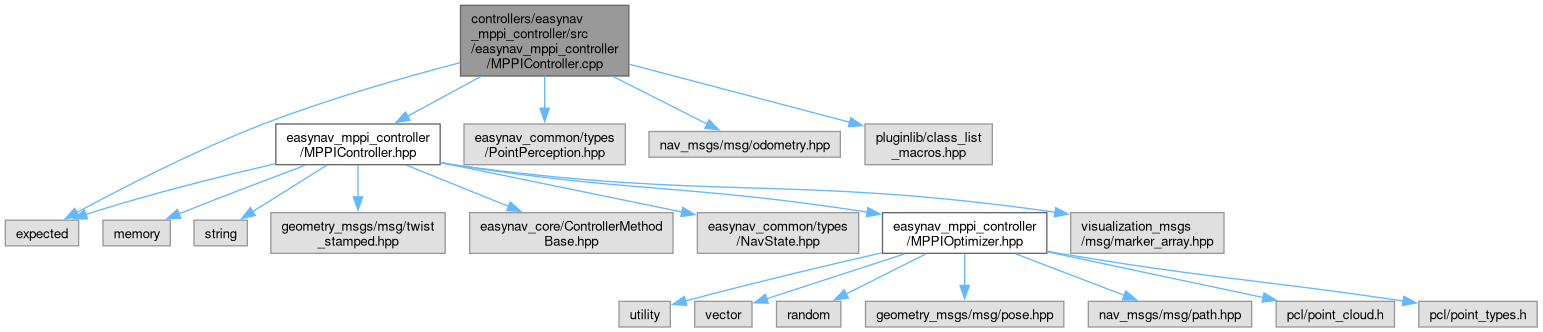
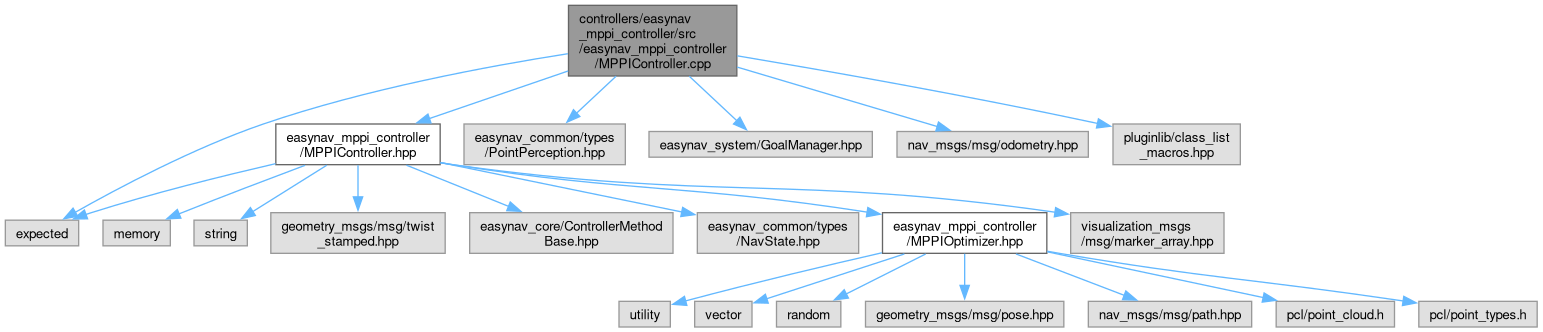
deploy: 215314a94bc722603bfd4a8b51b49faeaf0b64ff

diff --git a/MPPIController_8hpp_source.html b/MPPIController_8hpp_source.html
@@ -158,22 +158,22 @@ $(function(){ initResizable(false); });
 <div class="line"><a id="l00072" name="l00072"></a><span class="lineno">   72</span><span class="preprocessor">#endif  </span><span class="comment">// EASYNAV_MPPI_CONTROLLER__MPPICONTROLLER_HPP_</span></div>
 <div class="ttc" id="aMPPIOptimizer_8hpp_html"><div class="ttname"><a href="MPPIOptimizer_8hpp.html">MPPIOptimizer.hpp</a></div></div>
 <div class="ttc" id="aclasseasynav_1_1MPPIController_html_a184ccf785fbb6405ccc1f44510abe9d6"><div class="ttname"><a href="classeasynav_1_1MPPIController.html#a184ccf785fbb6405ccc1f44510abe9d6">easynav::MPPIController::optimizer_</a></div><div class="ttdeci">std::unique_ptr&lt; MPPIOptimizer &gt; optimizer_</div><div class="ttdoc">MPPI optimizer.</div><div class="ttdef"><b>Definition</b> MPPIController.hpp:57</div></div>
-<div class="ttc" id="aclasseasynav_1_1MPPIController_html_a21363d3659ba43821aaba326d647f883"><div class="ttname"><a href="classeasynav_1_1MPPIController.html#a21363d3659ba43821aaba326d647f883">easynav::MPPIController::publish_mppi_markers</a></div><div class="ttdeci">void publish_mppi_markers(const std::vector&lt; std::vector&lt; std::pair&lt; double, double &gt; &gt; &gt; &amp;all_trajs, const std::vector&lt; std::pair&lt; double, double &gt; &gt; &amp;best_traj)</div><div class="ttdoc">Publishes MPPI markers for visualization.</div><div class="ttdef"><b>Definition</b> MPPIController.cpp:76</div></div>
+<div class="ttc" id="aclasseasynav_1_1MPPIController_html_a21363d3659ba43821aaba326d647f883"><div class="ttname"><a href="classeasynav_1_1MPPIController.html#a21363d3659ba43821aaba326d647f883">easynav::MPPIController::publish_mppi_markers</a></div><div class="ttdeci">void publish_mppi_markers(const std::vector&lt; std::vector&lt; std::pair&lt; double, double &gt; &gt; &gt; &amp;all_trajs, const std::vector&lt; std::pair&lt; double, double &gt; &gt; &amp;best_traj)</div><div class="ttdoc">Publishes MPPI markers for visualization.</div><div class="ttdef"><b>Definition</b> MPPIController.cpp:77</div></div>
 <div class="ttc" id="aclasseasynav_1_1MPPIController_html_a2842ab7e326293e6af511fd4fd9aa174"><div class="ttname"><a href="classeasynav_1_1MPPIController.html#a2842ab7e326293e6af511fd4fd9aa174">easynav::MPPIController::max_lin_vel_</a></div><div class="ttdeci">double max_lin_vel_</div><div class="ttdoc">Maximum linear velocity for MPPI.</div><div class="ttdef"><b>Definition</b> MPPIController.hpp:48</div></div>
 <div class="ttc" id="aclasseasynav_1_1MPPIController_html_a325e56d896dee4cab40d843ce180b331"><div class="ttname"><a href="classeasynav_1_1MPPIController.html#a325e56d896dee4cab40d843ce180b331">easynav::MPPIController::safety_radius_</a></div><div class="ttdeci">double safety_radius_</div><div class="ttdoc">Safety radius for obstacle avoidance.</div><div class="ttdef"><b>Definition</b> MPPIController.hpp:53</div></div>
 <div class="ttc" id="aclasseasynav_1_1MPPIController_html_a42a65ea434d32fceba0cf1d6f88c9159"><div class="ttname"><a href="classeasynav_1_1MPPIController.html#a42a65ea434d32fceba0cf1d6f88c9159">easynav::MPPIController::dt_</a></div><div class="ttdeci">double dt_</div><div class="ttdoc">Time step for MPPI.</div><div class="ttdef"><b>Definition</b> MPPIController.hpp:46</div></div>
 <div class="ttc" id="aclasseasynav_1_1MPPIController_html_a612f1561fb617beec22a83692b302ba5"><div class="ttname"><a href="classeasynav_1_1MPPIController.html#a612f1561fb617beec22a83692b302ba5">easynav::MPPIController::max_ang_acc_</a></div><div class="ttdeci">double max_ang_acc_</div><div class="ttdoc">Maximum angular acceleration for MPPI.</div><div class="ttdef"><b>Definition</b> MPPIController.hpp:51</div></div>
 <div class="ttc" id="aclasseasynav_1_1MPPIController_html_a628b9037215320c310cee6b1370b011d"><div class="ttname"><a href="classeasynav_1_1MPPIController.html#a628b9037215320c310cee6b1370b011d">easynav::MPPIController::lambda_</a></div><div class="ttdeci">double lambda_</div><div class="ttdoc">Temperature parameter for MPPI.</div><div class="ttdef"><b>Definition</b> MPPIController.hpp:47</div></div>
 <div class="ttc" id="aclasseasynav_1_1MPPIController_html_a6a9de5bbd5031ab9139b7bb4e69cfd80"><div class="ttname"><a href="classeasynav_1_1MPPIController.html#a6a9de5bbd5031ab9139b7bb4e69cfd80">easynav::MPPIController::twist_stamped_</a></div><div class="ttdeci">geometry_msgs::msg::TwistStamped twist_stamped_</div><div class="ttdoc">Current velocity command.</div><div class="ttdef"><b>Definition</b> MPPIController.hpp:55</div></div>
-<div class="ttc" id="aclasseasynav_1_1MPPIController_html_a6ed380ba537bbe9a85710810db50a95c"><div class="ttname"><a href="classeasynav_1_1MPPIController.html#a6ed380ba537bbe9a85710810db50a95c">easynav::MPPIController::update_rt</a></div><div class="ttdeci">void update_rt(NavState &amp;nav_state) override</div><div class="ttdoc">Updates the controller using the given NavState.</div><div class="ttdef"><b>Definition</b> MPPIController.cpp:141</div></div>
+<div class="ttc" id="aclasseasynav_1_1MPPIController_html_a6ed380ba537bbe9a85710810db50a95c"><div class="ttname"><a href="classeasynav_1_1MPPIController.html#a6ed380ba537bbe9a85710810db50a95c">easynav::MPPIController::update_rt</a></div><div class="ttdeci">void update_rt(NavState &amp;nav_state) override</div><div class="ttdoc">Updates the controller using the given NavState.</div><div class="ttdef"><b>Definition</b> MPPIController.cpp:142</div></div>
 <div class="ttc" id="aclasseasynav_1_1MPPIController_html_a80a55a93bfafd6db6d1a68bb3b7939ad"><div class="ttname"><a href="classeasynav_1_1MPPIController.html#a80a55a93bfafd6db6d1a68bb3b7939ad">easynav::MPPIController::num_samples_</a></div><div class="ttdeci">int num_samples_</div><div class="ttdoc">Number of samples for MPPI.</div><div class="ttdef"><b>Definition</b> MPPIController.hpp:44</div></div>
 <div class="ttc" id="aclasseasynav_1_1MPPIController_html_a8e951781a235ccfcde6fafd1c2058e70"><div class="ttname"><a href="classeasynav_1_1MPPIController.html#a8e951781a235ccfcde6fafd1c2058e70">easynav::MPPIController::mppi_candidates_pub_</a></div><div class="ttdeci">rclcpp::Publisher&lt; visualization_msgs::msg::MarkerArray &gt;::SharedPtr mppi_candidates_pub_</div><div class="ttdoc">Publisher for MPPI candidates markers.</div><div class="ttdef"><b>Definition</b> MPPIController.hpp:58</div></div>
-<div class="ttc" id="aclasseasynav_1_1MPPIController_html_aa09f4316ce265b452c96e6d74101cd76"><div class="ttname"><a href="classeasynav_1_1MPPIController.html#aa09f4316ce265b452c96e6d74101cd76">easynav::MPPIController::on_initialize</a></div><div class="ttdeci">std::expected&lt; void, std::string &gt; on_initialize() override</div><div class="ttdoc">Initializes parameters and MPPI controller.</div><div class="ttdef"><b>Definition</b> MPPIController.cpp:38</div></div>
+<div class="ttc" id="aclasseasynav_1_1MPPIController_html_aa09f4316ce265b452c96e6d74101cd76"><div class="ttname"><a href="classeasynav_1_1MPPIController.html#aa09f4316ce265b452c96e6d74101cd76">easynav::MPPIController::on_initialize</a></div><div class="ttdeci">std::expected&lt; void, std::string &gt; on_initialize() override</div><div class="ttdoc">Initializes parameters and MPPI controller.</div><div class="ttdef"><b>Definition</b> MPPIController.cpp:39</div></div>
 <div class="ttc" id="aclasseasynav_1_1MPPIController_html_ab8bce157ac29a127239bd08d16456887"><div class="ttname"><a href="classeasynav_1_1MPPIController.html#ab8bce157ac29a127239bd08d16456887">easynav::MPPIController::~MPPIController</a></div><div class="ttdeci">~MPPIController() override</div><div class="ttdoc">Destructor.</div></div>
 <div class="ttc" id="aclasseasynav_1_1MPPIController_html_ac19f307b9783300d26fd4c53ce744f4e"><div class="ttname"><a href="classeasynav_1_1MPPIController.html#ac19f307b9783300d26fd4c53ce744f4e">easynav::MPPIController::max_ang_vel_</a></div><div class="ttdeci">double max_ang_vel_</div><div class="ttdoc">Maximum angular velocity for MPPI.</div><div class="ttdef"><b>Definition</b> MPPIController.hpp:49</div></div>
 <div class="ttc" id="aclasseasynav_1_1MPPIController_html_ad23828a2bf11c1cf8df11e6400adde2e"><div class="ttname"><a href="classeasynav_1_1MPPIController.html#ad23828a2bf11c1cf8df11e6400adde2e">easynav::MPPIController::fov_</a></div><div class="ttdeci">double fov_</div><div class="ttdoc">Field of view for MPPI.</div><div class="ttdef"><b>Definition</b> MPPIController.hpp:52</div></div>
 <div class="ttc" id="aclasseasynav_1_1MPPIController_html_ad6ba936c86b5a6bebce3778150cb08a8"><div class="ttname"><a href="classeasynav_1_1MPPIController.html#ad6ba936c86b5a6bebce3778150cb08a8">easynav::MPPIController::horizon_steps_</a></div><div class="ttdeci">int horizon_steps_</div><div class="ttdoc">Prediction horizon for MPPI.</div><div class="ttdef"><b>Definition</b> MPPIController.hpp:45</div></div>
-<div class="ttc" id="aclasseasynav_1_1MPPIController_html_ad9b24cab72366c4f858ec99e057815fc"><div class="ttname"><a href="classeasynav_1_1MPPIController.html#ad9b24cab72366c4f858ec99e057815fc">easynav::MPPIController::MPPIController</a></div><div class="ttdeci">MPPIController()</div><div class="ttdef"><b>Definition</b> MPPIController.cpp:33</div></div>
+<div class="ttc" id="aclasseasynav_1_1MPPIController_html_ad9b24cab72366c4f858ec99e057815fc"><div class="ttname"><a href="classeasynav_1_1MPPIController.html#ad9b24cab72366c4f858ec99e057815fc">easynav::MPPIController::MPPIController</a></div><div class="ttdeci">MPPIController()</div><div class="ttdef"><b>Definition</b> MPPIController.cpp:34</div></div>
 <div class="ttc" id="aclasseasynav_1_1MPPIController_html_aed29cb07dfb250c6010ee111e5f26d9c"><div class="ttname"><a href="classeasynav_1_1MPPIController.html#aed29cb07dfb250c6010ee111e5f26d9c">easynav::MPPIController::max_lin_acc_</a></div><div class="ttdeci">double max_lin_acc_</div><div class="ttdoc">Maximum linear acceleration for MPPI.</div><div class="ttdef"><b>Definition</b> MPPIController.hpp:50</div></div>
 <div class="ttc" id="aclasseasynav_1_1MPPIController_html_af417c44d779639cc93a6e41e23717559"><div class="ttname"><a href="classeasynav_1_1MPPIController.html#af417c44d779639cc93a6e41e23717559">easynav::MPPIController::mppi_optimal_pub_</a></div><div class="ttdeci">rclcpp::Publisher&lt; visualization_msgs::msg::MarkerArray &gt;::SharedPtr mppi_optimal_pub_</div><div class="ttdoc">Publisher for MPPI optimal path markers.</div><div class="ttdef"><b>Definition</b> MPPIController.hpp:59</div></div>
 <div class="ttc" id="anamespaceeasynav_html"><div class="ttname"><a href="namespaceeasynav.html">easynav</a></div><div class="ttdoc">Provides a mapping for often used cost values.</div><div class="ttdef"><b>Definition</b> cost_values.hpp:41</div></div>

diff --git a/CostmapPlanner_8hpp_source.html b/CostmapPlanner_8hpp_source.html
@@ -158,17 +158,17 @@ $(function(){ initResizable(false); });
 <div class="line"><a id="l00105" name="l00105"></a><span class="lineno">  105</span><span class="preprocessor">#endif  </span><span class="comment">// EASYNAV_COSTMAP_PLANNER__COSTMAPPLANNER_HPP_</span></div>
 <div class="ttc" id="aclassPlannerMethodBase_html"><div class="ttname"><a href="classPlannerMethodBase.html">PlannerMethodBase</a></div></div>
 <div class="ttc" id="aclasseasynav_1_1Costmap2D_html"><div class="ttname"><a href="classeasynav_1_1Costmap2D.html">easynav::Costmap2D</a></div><div class="ttdoc">A 2D costmap provides a mapping between points in the world and their associated &quot;costs&quot;.</div><div class="ttdef"><b>Definition</b> costmap_2d.hpp:65</div></div>
-<div class="ttc" id="aclasseasynav_1_1CostmapPlanner_html_a24ddfd2eba3d3d6a90d492e8d25ff0da"><div class="ttname"><a href="classeasynav_1_1CostmapPlanner.html#a24ddfd2eba3d3d6a90d492e8d25ff0da">easynav::CostmapPlanner::update</a></div><div class="ttdeci">void update(NavState &amp;nav_state) override</div><div class="ttdoc">Executes a planning cycle using the current navigation state.</div><div class="ttdef"><b>Definition</b> CostmapPlanner.cpp:104</div></div>
+<div class="ttc" id="aclasseasynav_1_1CostmapPlanner_html_a24ddfd2eba3d3d6a90d492e8d25ff0da"><div class="ttname"><a href="classeasynav_1_1CostmapPlanner.html#a24ddfd2eba3d3d6a90d492e8d25ff0da">easynav::CostmapPlanner::update</a></div><div class="ttdeci">void update(NavState &amp;nav_state) override</div><div class="ttdoc">Executes a planning cycle using the current navigation state.</div><div class="ttdef"><b>Definition</b> CostmapPlanner.cpp:147</div></div>
 <div class="ttc" id="aclasseasynav_1_1CostmapPlanner_html_a35e94cf5823e535adf42e15573b348d8"><div class="ttname"><a href="classeasynav_1_1CostmapPlanner.html#a35e94cf5823e535adf42e15573b348d8">easynav::CostmapPlanner::continuous_replan_</a></div><div class="ttdeci">bool continuous_replan_</div><div class="ttdoc">Wheter replan path at freq time.</div><div class="ttdef"><b>Definition</b> CostmapPlanner.hpp:75</div></div>
 <div class="ttc" id="aclasseasynav_1_1CostmapPlanner_html_a3a0cc9d7035b71dd3eae451181ee896f"><div class="ttname"><a href="classeasynav_1_1CostmapPlanner.html#a3a0cc9d7035b71dd3eae451181ee896f">easynav::CostmapPlanner::cost_axial_</a></div><div class="ttdeci">double cost_axial_</div><div class="ttdoc">Cost multiplier for axial (horizontal/vertical) moves.</div><div class="ttdef"><b>Definition</b> CostmapPlanner.hpp:73</div></div>
-<div class="ttc" id="aclasseasynav_1_1CostmapPlanner_html_a4af8c9ca8afd491cb4741a1e3c636e7b"><div class="ttname"><a href="classeasynav_1_1CostmapPlanner.html#a4af8c9ca8afd491cb4741a1e3c636e7b">easynav::CostmapPlanner::CostmapPlanner</a></div><div class="ttdeci">CostmapPlanner()</div><div class="ttdoc">Default constructor.</div><div class="ttdef"><b>Definition</b> CostmapPlanner.cpp:71</div></div>
+<div class="ttc" id="aclasseasynav_1_1CostmapPlanner_html_a4af8c9ca8afd491cb4741a1e3c636e7b"><div class="ttname"><a href="classeasynav_1_1CostmapPlanner.html#a4af8c9ca8afd491cb4741a1e3c636e7b">easynav::CostmapPlanner::CostmapPlanner</a></div><div class="ttdeci">CostmapPlanner()</div><div class="ttdoc">Default constructor.</div><div class="ttdef"><b>Definition</b> CostmapPlanner.cpp:114</div></div>
 <div class="ttc" id="aclasseasynav_1_1CostmapPlanner_html_a89eb78013dffcbf2780471861a37b90a"><div class="ttname"><a href="classeasynav_1_1CostmapPlanner.html#a89eb78013dffcbf2780471861a37b90a">easynav::CostmapPlanner::cost_factor_</a></div><div class="ttdeci">double cost_factor_</div><div class="ttdoc">Scaling factor applied to cell cost values.</div><div class="ttdef"><b>Definition</b> CostmapPlanner.hpp:71</div></div>
 <div class="ttc" id="aclasseasynav_1_1CostmapPlanner_html_a8dc6b25f90bfb16f7f1d95b51800aa00"><div class="ttname"><a href="classeasynav_1_1CostmapPlanner.html#a8dc6b25f90bfb16f7f1d95b51800aa00">easynav::CostmapPlanner::current_path_</a></div><div class="ttdeci">nav_msgs::msg::Path current_path_</div><div class="ttdoc">Most recently computed path.</div><div class="ttdef"><b>Definition</b> CostmapPlanner.hpp:76</div></div>
-<div class="ttc" id="aclasseasynav_1_1CostmapPlanner_html_aa09f4316ce265b452c96e6d74101cd76"><div class="ttname"><a href="classeasynav_1_1CostmapPlanner.html#aa09f4316ce265b452c96e6d74101cd76">easynav::CostmapPlanner::on_initialize</a></div><div class="ttdeci">virtual std::expected&lt; void, std::string &gt; on_initialize() override</div><div class="ttdoc">Initializes the planner.</div><div class="ttdef"><b>Definition</b> CostmapPlanner.cpp:82</div></div>
+<div class="ttc" id="aclasseasynav_1_1CostmapPlanner_html_aa09f4316ce265b452c96e6d74101cd76"><div class="ttname"><a href="classeasynav_1_1CostmapPlanner.html#aa09f4316ce265b452c96e6d74101cd76">easynav::CostmapPlanner::on_initialize</a></div><div class="ttdeci">virtual std::expected&lt; void, std::string &gt; on_initialize() override</div><div class="ttdoc">Initializes the planner.</div><div class="ttdef"><b>Definition</b> CostmapPlanner.cpp:125</div></div>
 <div class="ttc" id="aclasseasynav_1_1CostmapPlanner_html_aa6594c58e9975c44d0602a32f8b89d96"><div class="ttname"><a href="classeasynav_1_1CostmapPlanner.html#aa6594c58e9975c44d0602a32f8b89d96">easynav::CostmapPlanner::current_goal_</a></div><div class="ttdeci">geometry_msgs::msg::Pose current_goal_</div><div class="ttdoc">Current goal.</div><div class="ttdef"><b>Definition</b> CostmapPlanner.hpp:77</div></div>
 <div class="ttc" id="aclasseasynav_1_1CostmapPlanner_html_aae88bf99367ef2892c348393a3ee8f84"><div class="ttname"><a href="classeasynav_1_1CostmapPlanner.html#aae88bf99367ef2892c348393a3ee8f84">easynav::CostmapPlanner::cost_diagonal_</a></div><div class="ttdeci">double cost_diagonal_</div><div class="ttdoc">Cost multiplier for diagonal moves.</div><div class="ttdef"><b>Definition</b> CostmapPlanner.hpp:74</div></div>
 <div class="ttc" id="aclasseasynav_1_1CostmapPlanner_html_ac44f0fe3c3f35ae18c498ef6ecb47dd6"><div class="ttname"><a href="classeasynav_1_1CostmapPlanner.html#ac44f0fe3c3f35ae18c498ef6ecb47dd6">easynav::CostmapPlanner::path_pub_</a></div><div class="ttdeci">rclcpp::Publisher&lt; nav_msgs::msg::Path &gt;::SharedPtr path_pub_</div><div class="ttdoc">Publisher for the computed navigation path (for visualization or monitoring).</div><div class="ttdef"><b>Definition</b> CostmapPlanner.hpp:80</div></div>
-<div class="ttc" id="aclasseasynav_1_1CostmapPlanner_html_ad8dd8ff2b3fee4c3dca90b0e2b091d66"><div class="ttname"><a href="classeasynav_1_1CostmapPlanner.html#ad8dd8ff2b3fee4c3dca90b0e2b091d66">easynav::CostmapPlanner::a_star_path</a></div><div class="ttdeci">std::vector&lt; geometry_msgs::msg::Pose &gt; a_star_path(const Costmap2D &amp;map, const geometry_msgs::msg::Pose &amp;start, const geometry_msgs::msg::Pose &amp;goal)</div><div class="ttdoc">Internal A* path planning routine.</div><div class="ttdef"><b>Definition</b> CostmapPlanner.cpp:207</div></div>
+<div class="ttc" id="aclasseasynav_1_1CostmapPlanner_html_ad8dd8ff2b3fee4c3dca90b0e2b091d66"><div class="ttname"><a href="classeasynav_1_1CostmapPlanner.html#ad8dd8ff2b3fee4c3dca90b0e2b091d66">easynav::CostmapPlanner::a_star_path</a></div><div class="ttdeci">std::vector&lt; geometry_msgs::msg::Pose &gt; a_star_path(const Costmap2D &amp;map, const geometry_msgs::msg::Pose &amp;start, const geometry_msgs::msg::Pose &amp;goal)</div><div class="ttdoc">Internal A* path planning routine.</div><div class="ttdef"><b>Definition</b> CostmapPlanner.cpp:250</div></div>
 <div class="ttc" id="aclasseasynav_1_1CostmapPlanner_html_afa42e78400a5504304ee9b56e2160d5c"><div class="ttname"><a href="classeasynav_1_1CostmapPlanner.html#afa42e78400a5504304ee9b56e2160d5c">easynav::CostmapPlanner::inflation_penalty_</a></div><div class="ttdeci">double inflation_penalty_</div><div class="ttdoc">Extra cost penalty for paths near inflated obstacles.</div><div class="ttdef"><b>Definition</b> CostmapPlanner.hpp:72</div></div>
 <div class="ttc" id="acostmap__2d_8hpp_html"><div class="ttname"><a href="costmap__2d_8hpp.html">costmap_2d.hpp</a></div></div>
 <div class="ttc" id="anamespaceeasynav_html"><div class="ttname"><a href="namespaceeasynav.html">easynav</a></div><div class="ttdoc">Provides a mapping for often used cost values.</div><div class="ttdef"><b>Definition</b> cost_values.hpp:41</div></div>

diff --git a/SerestController_8cpp.html b/SerestController_8cpp.html
@@ -99,6 +99,7 @@ $(function(){ initResizable(false); });
 <div class="textblock"><code>#include &lt;algorithm&gt;</code><br />
 <code>#include &lt;limits&gt;</code><br />
 <code>#include &lt;cmath&gt;</code><br />
+<code>#include &lt;numbers&gt;</code><br />
 <code>#include &quot;tf2/utils.hpp&quot;</code><br />
 <code>#include &quot;tf2_geometry_msgs/tf2_geometry_msgs.hpp&quot;</code><br />
 <code>#include &quot;easynav_common/types/PointPerception.hpp&quot;</code><br />
@@ -109,41 +110,43 @@ Include dependency graph for SerestController.cpp:</div>
 <div class="dyncontent">
 <div class="center"><img src="SerestController_8cpp__incl.png" border="0" usemap="#acontrollers_2easynav__serest__controller_2src_2easynav__serest__controller_2SerestController_8cpp" alt=""/></div>
 <map name="acontrollers_2easynav__serest__controller_2src_2easynav__serest__controller_2SerestController_8cpp" id="acontrollers_2easynav__serest__controller_2src_2easynav__serest__controller_2SerestController_8cpp">
-<area shape="rect" title="Implementation of the SimpleController class." alt="" coords="290,5,467,76"/>
+<area shape="rect" title="Implementation of the SimpleController class." alt="" coords="313,5,489,76"/>
 <area shape="rect" title=" " alt="" coords="5,132,80,157"/>
-<area shape="poly" title=" " alt="" coords="291,68,93,127,87,128,86,123,91,121,289,63"/>
+<area shape="poly" title=" " alt="" coords="313,65,207,93,93,127,87,128,85,123,91,121,206,88,312,60"/>
 <area shape="rect" title=" " alt="" coords="104,132,157,157"/>
-<area shape="poly" title=" " alt="" coords="291,77,170,126,169,127,167,122,168,122,289,72"/>
+<area shape="poly" title=" " alt="" coords="314,73,170,126,169,127,167,122,168,122,312,68"/>
 <area shape="rect" title=" " alt="" coords="180,132,238,157"/>
-<area shape="poly" title=" " alt="" coords="322,79,244,126,241,121,319,74"/>
-<area shape="rect" title=" " alt="" coords="262,132,351,157"/>
-<area shape="poly" title=" " alt="" coords="356,78,326,120,322,117,352,75"/>
-<area shape="rect" title=" " alt="" coords="375,124,529,165"/>
-<area shape="poly" title=" " alt="" coords="405,75,431,110,427,113,401,78"/>
-<area shape="rect" title=" " alt="" coords="552,124,714,165"/>
-<area shape="poly" title=" " alt="" coords="467,74,571,115,569,120,465,79"/>
-<area shape="rect" href="SerestController_8hpp.html" title=" " alt="" coords="738,124,910,165"/>
-<area shape="poly" title=" " alt="" coords="468,59,723,117,722,123,466,65"/>
-<area shape="rect" title=" " alt="" coords="934,124,1061,165"/>
-<area shape="poly" title=" " alt="" coords="467,50,670,78,918,121,917,126,669,83,467,55"/>
-<area shape="rect" title=" " alt="" coords="338,220,411,246"/>
-<area shape="poly" title=" " alt="" coords="738,165,727,167,641,180,575,187,508,196,425,215,418,217,417,212,423,210,507,191,574,182,641,175,726,162,737,160"/>
-<area shape="rect" title=" " alt="" coords="435,220,492,246"/>
-<area shape="poly" title=" " alt="" coords="738,165,506,215,502,217,500,211,504,210,737,160"/>
-<area shape="rect" title=" " alt="" coords="517,220,570,246"/>
-<area shape="poly" title=" " alt="" coords="739,168,663,189,583,215,581,216,579,211,582,210,661,184,738,163"/>
-<area shape="rect" title=" " alt="" coords="594,220,704,246"/>
-<area shape="poly" title=" " alt="" coords="785,168,688,215,686,211,783,163"/>
-<area shape="rect" title=" " alt="" coords="728,220,920,246"/>
-<area shape="poly" title=" " alt="" coords="826,165,826,205,821,205,821,165"/>
-<area shape="rect" title=" " alt="" coords="944,220,1107,246"/>
-<area shape="poly" title=" " alt="" coords="871,163,984,211,982,216,868,168"/>
-<area shape="rect" title=" " alt="" coords="1131,213,1306,253"/>
-<area shape="poly" title=" " alt="" coords="911,162,1116,207,1115,212,910,167"/>
-<area shape="rect" title=" " alt="" coords="1330,213,1534,253"/>
-<area shape="poly" title=" " alt="" coords="911,160,922,162,1116,187,1315,210,1315,215,1116,192,921,167,910,166"/>
-<area shape="rect" title=" " alt="" coords="1558,213,1719,253"/>
-<area shape="poly" title=" " alt="" coords="911,160,921,162,1094,180,1230,186,1368,192,1543,210,1542,215,1367,197,1230,191,1094,185,921,167,910,166"/>
+<area shape="poly" title=" " alt="" coords="337,79,247,126,244,121,334,74"/>
+<area shape="rect" title=" " alt="" coords="262,132,333,157"/>
+<area shape="poly" title=" " alt="" coords="368,78,322,123,318,119,364,74"/>
+<area shape="rect" title=" " alt="" coords="357,132,445,157"/>
+<area shape="poly" title=" " alt="" coords="404,76,404,116,398,116,398,76"/>
+<area shape="rect" title=" " alt="" coords="469,124,624,165"/>
+<area shape="poly" title=" " alt="" coords="452,74,507,113,504,117,449,79"/>
+<area shape="rect" title=" " alt="" coords="647,124,808,165"/>
+<area shape="poly" title=" " alt="" coords="491,67,651,116,649,121,489,72"/>
+<area shape="rect" href="SerestController_8hpp.html" title=" " alt="" coords="832,124,1005,165"/>
+<area shape="poly" title=" " alt="" coords="490,57,817,121,816,126,489,62"/>
+<area shape="rect" title=" " alt="" coords="1028,124,1156,165"/>
+<area shape="poly" title=" " alt="" coords="490,48,723,75,866,96,1013,121,1012,126,866,101,723,80,490,53"/>
+<area shape="rect" title=" " alt="" coords="432,220,506,246"/>
+<area shape="poly" title=" " alt="" coords="832,165,822,167,736,180,669,187,603,196,519,215,513,217,511,212,518,210,602,191,669,182,735,175,821,162,832,160"/>
+<area shape="rect" title=" " alt="" coords="530,220,587,246"/>
+<area shape="poly" title=" " alt="" coords="833,165,601,215,597,217,595,211,599,210,831,160"/>
+<area shape="rect" title=" " alt="" coords="612,220,665,246"/>
+<area shape="poly" title=" " alt="" coords="834,168,757,189,678,215,676,216,674,211,676,210,756,184,832,163"/>
+<area shape="rect" title=" " alt="" coords="689,220,798,246"/>
+<area shape="poly" title=" " alt="" coords="880,168,783,215,781,211,878,163"/>
+<area shape="rect" title=" " alt="" coords="823,220,1014,246"/>
+<area shape="poly" title=" " alt="" coords="921,165,921,205,916,205,916,165"/>
+<area shape="rect" title=" " alt="" coords="1038,220,1202,246"/>
+<area shape="poly" title=" " alt="" coords="965,163,1079,211,1077,216,963,168"/>
+<area shape="rect" title=" " alt="" coords="1226,213,1400,253"/>
+<area shape="poly" title=" " alt="" coords="1006,162,1211,207,1210,212,1005,167"/>
+<area shape="rect" title=" " alt="" coords="1425,213,1628,253"/>
+<area shape="poly" title=" " alt="" coords="1005,160,1016,162,1211,187,1410,210,1409,215,1210,192,1015,167,1005,166"/>
+<area shape="rect" title=" " alt="" coords="1652,213,1814,253"/>
+<area shape="poly" title=" " alt="" coords="1005,160,1016,162,1189,180,1325,186,1462,192,1638,210,1637,215,1462,197,1325,191,1188,185,1016,167,1005,166"/>
 </map>
 </div>
 </div><table class="memberdecls">

diff --git a/SerestController_8hpp_source.html b/SerestController_8hpp_source.html
@@ -344,10 +344,10 @@ $(function(){ initResizable(false); });
 <div class="line"><a id="l00410" name="l00410"></a><span class="lineno">  410</span>}  <span class="comment">// namespace easynav</span></div>
 <div class="line"><a id="l00411" name="l00411"></a><span class="lineno">  411</span> </div>
 <div class="line"><a id="l00412" name="l00412"></a><span class="lineno">  412</span><span class="preprocessor">#endif  </span><span class="comment">// EASYNAV_SEREST_CONTROLLER__SERESTCONTROLLER_HPP_</span></div>
-<div class="ttc" id="aclasseasynav_1_1SerestController_html_a6ed380ba537bbe9a85710810db50a95c"><div class="ttname"><a href="classeasynav_1_1SerestController.html#a6ed380ba537bbe9a85710810db50a95c">easynav::SerestController::update_rt</a></div><div class="ttdeci">void update_rt(NavState &amp;nav_state) override</div><div class="ttdoc">Real-time control update (called ~20–30 Hz).</div><div class="ttdef"><b>Definition</b> SerestController.cpp:613</div></div>
+<div class="ttc" id="aclasseasynav_1_1SerestController_html_a6ed380ba537bbe9a85710810db50a95c"><div class="ttname"><a href="classeasynav_1_1SerestController.html#a6ed380ba537bbe9a85710810db50a95c">easynav::SerestController::update_rt</a></div><div class="ttdeci">void update_rt(NavState &amp;nav_state) override</div><div class="ttdoc">Real-time control update (called ~20–30 Hz).</div><div class="ttdef"><b>Definition</b> SerestController.cpp:611</div></div>
 <div class="ttc" id="aclasseasynav_1_1SerestController_html_a9c0e602094884b47abb95c257590f290"><div class="ttname"><a href="classeasynav_1_1SerestController.html#a9c0e602094884b47abb95c257590f290">easynav::SerestController::SerestController</a></div><div class="ttdeci">SerestController()</div><div class="ttdoc">Default constructor.</div></div>
 <div class="ttc" id="aclasseasynav_1_1SerestController_html_a9ce92be03951ffeb7464f90ba1e6e491"><div class="ttname"><a href="classeasynav_1_1SerestController.html#a9ce92be03951ffeb7464f90ba1e6e491">easynav::SerestController::~SerestController</a></div><div class="ttdeci">~SerestController() override</div><div class="ttdoc">Destructor.</div></div>
-<div class="ttc" id="aclasseasynav_1_1SerestController_html_aa09f4316ce265b452c96e6d74101cd76"><div class="ttname"><a href="classeasynav_1_1SerestController.html#aa09f4316ce265b452c96e6d74101cd76">easynav::SerestController::on_initialize</a></div><div class="ttdeci">std::expected&lt; void, std::string &gt; on_initialize() override</div><div class="ttdoc">Initialize parameters and internal state.</div><div class="ttdef"><b>Definition</b> SerestController.cpp:43</div></div>
+<div class="ttc" id="aclasseasynav_1_1SerestController_html_aa09f4316ce265b452c96e6d74101cd76"><div class="ttname"><a href="classeasynav_1_1SerestController.html#aa09f4316ce265b452c96e6d74101cd76">easynav::SerestController::on_initialize</a></div><div class="ttdeci">std::expected&lt; void, std::string &gt; on_initialize() override</div><div class="ttdoc">Initialize parameters and internal state.</div><div class="ttdef"><b>Definition</b> SerestController.cpp:44</div></div>
 <div class="ttc" id="anamespaceeasynav_html"><div class="ttname"><a href="namespaceeasynav.html">easynav</a></div><div class="ttdoc">Provides a mapping for often used cost values.</div><div class="ttdef"><b>Definition</b> cost_values.hpp:41</div></div>
 <div class="ttc" id="anamespaceeasynav_html_a0ffc863bec70f7d80d9402116a3a6f49"><div class="ttname"><a href="namespaceeasynav.html#a0ffc863bec70f7d80d9402116a3a6f49">easynav::v2</a></div><div class="ttdeci">SerestController::Vec2 v2(double x, double y)</div><div class="ttdoc">Construct a 2D vector.</div><div class="ttdef"><b>Definition</b> SerestController.hpp:368</div></div>
 <div class="ttc" id="anamespaceeasynav_html_a17c24043890991aea729baaebb2c9752"><div class="ttname"><a href="namespaceeasynav.html#a17c24043890991aea729baaebb2c9752">easynav::crossz</a></div><div class="ttdeci">double crossz(const SerestController::Vec2 &amp;a, const SerestController::Vec2 &amp;b)</div><div class="ttdoc">2D cross product Z component (a.x*b.y - a.y*b.x).</div><div class="ttdef"><b>Definition</b> SerestController.hpp:387</div></div>

diff --git a/MPPIOptimizer_8hpp_source.html b/MPPIOptimizer_8hpp_source.html
@@ -188,8 +188,8 @@ $(function(){ initResizable(false); });
 <div class="line"><a id="l00134" name="l00134"></a><span class="lineno">  134</span>}  <span class="comment">// namespace easynav</span></div>
 <div class="line"><a id="l00135" name="l00135"></a><span class="lineno">  135</span> </div>
 <div class="line"><a id="l00136" name="l00136"></a><span class="lineno">  136</span><span class="preprocessor">#endif  </span><span class="comment">// EASYNAV_MPPI_CONTROLLER__MPPIOPTIMIZER_HPP_</span></div>
-<div class="ttc" id="aclasseasynav_1_1MPPIOptimizer_html_a2d6d9ff5ec9333e929e451bc8b6bdb55"><div class="ttname"><a href="classeasynav_1_1MPPIOptimizer.html#a2d6d9ff5ec9333e929e451bc8b6bdb55">easynav::MPPIOptimizer::compute_control</a></div><div class="ttdeci">MPPIResult compute_control(const geometry_msgs::msg::Pose &amp;current_pose, const nav_msgs::msg::Path &amp;path, const pcl::PointCloud&lt; pcl::PointXYZ &gt; &amp;points)</div><div class="ttdoc">Computes the control commands using MPPI optimization.</div><div class="ttdef"><b>Definition</b> MPPIOptimizer.cpp:174</div></div>
-<div class="ttc" id="aclasseasynav_1_1MPPIOptimizer_html_a54815c8e6d0d383acb2a2ede86d70c50"><div class="ttname"><a href="classeasynav_1_1MPPIOptimizer.html#a54815c8e6d0d383acb2a2ede86d70c50">easynav::MPPIOptimizer::MPPIOptimizer</a></div><div class="ttdeci">MPPIOptimizer(double num_samples, double horizon_steps, double dt, double lambda, double max_lin_vel=1.0, double max_ang_vel=1.0, double max_lin_acc=1.0, double max_ang_acc=1.0, double fov=M_PI/2.0, double safety_radius=0.6)</div><div class="ttdoc">Constructor for MPPIOptimizer.</div><div class="ttdef"><b>Definition</b> MPPIOptimizer.cpp:11</div></div>
+<div class="ttc" id="aclasseasynav_1_1MPPIOptimizer_html_a2d6d9ff5ec9333e929e451bc8b6bdb55"><div class="ttname"><a href="classeasynav_1_1MPPIOptimizer.html#a2d6d9ff5ec9333e929e451bc8b6bdb55">easynav::MPPIOptimizer::compute_control</a></div><div class="ttdeci">MPPIResult compute_control(const geometry_msgs::msg::Pose &amp;current_pose, const nav_msgs::msg::Path &amp;path, const pcl::PointCloud&lt; pcl::PointXYZ &gt; &amp;points)</div><div class="ttdoc">Computes the control commands using MPPI optimization.</div><div class="ttdef"><b>Definition</b> MPPIOptimizer.cpp:175</div></div>
+<div class="ttc" id="aclasseasynav_1_1MPPIOptimizer_html_a54815c8e6d0d383acb2a2ede86d70c50"><div class="ttname"><a href="classeasynav_1_1MPPIOptimizer.html#a54815c8e6d0d383acb2a2ede86d70c50">easynav::MPPIOptimizer::MPPIOptimizer</a></div><div class="ttdeci">MPPIOptimizer(double num_samples, double horizon_steps, double dt, double lambda, double max_lin_vel=1.0, double max_ang_vel=1.0, double max_lin_acc=1.0, double max_ang_acc=1.0, double fov=M_PI/2.0, double safety_radius=0.6)</div><div class="ttdoc">Constructor for MPPIOptimizer.</div><div class="ttdef"><b>Definition</b> MPPIOptimizer.cpp:12</div></div>
 <div class="ttc" id="anamespaceeasynav_html"><div class="ttname"><a href="namespaceeasynav.html">easynav</a></div><div class="ttdoc">Provides a mapping for often used cost values.</div><div class="ttdef"><b>Definition</b> cost_values.hpp:41</div></div>
 <div class="ttc" id="astructeasynav_1_1MPPIResult_html"><div class="ttname"><a href="structeasynav_1_1MPPIResult.html">easynav::MPPIResult</a></div><div class="ttdoc">Result structure for MPPI optimization containing control commands and trajectories.</div><div class="ttdef"><b>Definition</b> MPPIOptimizer.hpp:25</div></div>
 <div class="ttc" id="astructeasynav_1_1MPPIResult_html_a29249d87e36646702718e09a431de23b"><div class="ttname"><a href="structeasynav_1_1MPPIResult.html#a29249d87e36646702718e09a431de23b">easynav::MPPIResult::best_trajectory</a></div><div class="ttdeci">std::vector&lt; std::pair&lt; double, double &gt; &gt; best_trajectory</div><div class="ttdoc">Best trajectory found during optimization.</div><div class="ttdef"><b>Definition</b> MPPIOptimizer.hpp:29</div></div>

diff --git a/MPPIController_8cpp.html b/MPPIController_8cpp.html
@@ -99,6 +99,7 @@ $(function(){ initResizable(false); });
 <div class="textblock"><code>#include &lt;expected&gt;</code><br />
 <code>#include &quot;<a class="el" href="MPPIController_8hpp_source.html">easynav_mppi_controller/MPPIController.hpp</a>&quot;</code><br />
 <code>#include &quot;easynav_common/types/PointPerception.hpp&quot;</code><br />
+<code>#include &quot;easynav_system/GoalManager.hpp&quot;</code><br />
 <code>#include &quot;nav_msgs/msg/odometry.hpp&quot;</code><br />
 <code>#include &lt;pluginlib/class_list_macros.hpp&gt;</code><br />
 </div><div class="textblock"><div class="dynheader">
@@ -106,17 +107,19 @@ Include dependency graph for MPPIController.cpp:</div>
 <div class="dyncontent">
 <div class="center"><img src="MPPIController_8cpp__incl.png" border="0" usemap="#acontrollers_2easynav__mppi__controller_2src_2easynav__mppi__controller_2MPPIController_8cpp" alt=""/></div>
 <map name="acontrollers_2easynav__mppi__controller_2src_2easynav__mppi__controller_2MPPIController_8cpp" id="acontrollers_2easynav__mppi__controller_2src_2easynav__mppi__controller_2MPPIController_8cpp">
-<area shape="rect" title="Implementation of the MPPIController class." alt="" coords="460,5,629,76"/>
+<area shape="rect" title="Implementation of the MPPIController class." alt="" coords="568,5,737,76"/>
 <area shape="rect" title=" " alt="" coords="5,220,79,246"/>
-<area shape="poly" title=" " alt="" coords="461,65,366,92,264,126,162,172,78,215,75,210,159,167,262,122,364,87,460,60"/>
+<area shape="poly" title=" " alt="" coords="568,56,424,83,343,103,264,127,160,171,76,215,74,210,158,166,262,121,342,97,423,78,567,51"/>
 <area shape="rect" href="MPPIController_8hpp.html" title=" " alt="" coords="276,124,440,165"/>
-<area shape="poly" title=" " alt="" coords="482,79,409,118,406,114,480,74"/>
+<area shape="poly" title=" " alt="" coords="569,73,430,121,428,116,567,68"/>
 <area shape="rect" title=" " alt="" coords="464,124,625,165"/>
-<area shape="poly" title=" " alt="" coords="547,76,547,108,542,108,542,76"/>
-<area shape="rect" title=" " alt="" coords="649,132,840,157"/>
-<area shape="poly" title=" " alt="" coords="614,74,708,122,706,126,612,79"/>
-<area shape="rect" title=" " alt="" coords="865,124,992,165"/>
-<area shape="poly" title=" " alt="" coords="630,62,851,120,849,125,629,67"/>
+<area shape="poly" title=" " alt="" coords="618,78,578,115,575,111,614,74"/>
+<area shape="rect" title=" " alt="" coords="649,132,872,157"/>
+<area shape="poly" title=" " alt="" coords="691,74,739,119,735,123,687,78"/>
+<area shape="rect" title=" " alt="" coords="897,132,1088,157"/>
+<area shape="poly" title=" " alt="" coords="738,65,938,124,937,129,736,70"/>
+<area shape="rect" title=" " alt="" coords="1113,124,1240,165"/>
+<area shape="poly" title=" " alt="" coords="738,53,900,82,1098,121,1097,126,899,87,737,58"/>
 <area shape="poly" title=" " alt="" coords="276,166,187,188,92,215,87,217,85,212,91,210,186,183,275,161"/>
 <area shape="rect" title=" " alt="" coords="103,220,170,246"/>
 <area shape="poly" title=" " alt="" coords="306,168,183,215,180,216,178,211,181,210,304,163"/>

diff --git a/MPPIOptimizer_8cpp.html b/MPPIOptimizer_8cpp.html
@@ -95,6 +95,7 @@ $(function(){ initResizable(false); });
 <div class="contents">
 <div class="textblock"><code>#include &quot;<a class="el" href="MPPIOptimizer_8hpp_source.html">easynav_mppi_controller/MPPIOptimizer.hpp</a>&quot;</code><br />
 <code>#include &quot;tf2/utils.hpp&quot;</code><br />
+<code>#include &quot;tf2_geometry_msgs/tf2_geometry_msgs.hpp&quot;</code><br />
 <code>#include &lt;cmath&gt;</code><br />
 <code>#include &lt;limits&gt;</code><br />
 <code>#include &lt;algorithm&gt;</code><br />
@@ -103,17 +104,19 @@ Include dependency graph for MPPIOptimizer.cpp:</div>
 <div class="dyncontent">
 <div class="center"><img src="MPPIOptimizer_8cpp__incl.png" border="0" usemap="#acontrollers_2easynav__mppi__controller_2src_2easynav__mppi__controller_2MPPIOptimizer_8cpp" alt=""/></div>
 <map name="acontrollers_2easynav__mppi__controller_2src_2easynav__mppi__controller_2MPPIOptimizer_8cpp" id="acontrollers_2easynav__mppi__controller_2src_2easynav__mppi__controller_2MPPIOptimizer_8cpp">
-<area shape="rect" title=" " alt="" coords="515,5,683,76"/>
+<area shape="rect" title=" " alt="" coords="627,5,795,76"/>
 <area shape="rect" href="MPPIOptimizer_8hpp.html" title=" " alt="" coords="269,124,433,165"/>
-<area shape="poly" title=" " alt="" coords="515,79,414,120,412,115,513,74"/>
+<area shape="poly" title=" " alt="" coords="627,68,436,122,435,117,626,63"/>
 <area shape="rect" title=" " alt="" coords="458,132,546,157"/>
-<area shape="poly" title=" " alt="" coords="568,78,525,122,522,118,564,74"/>
-<area shape="rect" title=" " alt="" coords="570,132,628,157"/>
-<area shape="poly" title=" " alt="" coords="602,76,602,116,596,116,596,76"/>
-<area shape="rect" title=" " alt="" coords="652,132,704,157"/>
-<area shape="poly" title=" " alt="" coords="628,75,661,117,657,121,624,78"/>
-<area shape="rect" title=" " alt="" coords="728,132,803,157"/>
-<area shape="poly" title=" " alt="" coords="657,74,735,121,732,126,655,79"/>
+<area shape="poly" title=" " alt="" coords="641,79,541,127,539,122,638,74"/>
+<area shape="rect" title=" " alt="" coords="570,124,724,165"/>
+<area shape="poly" title=" " alt="" coords="692,78,670,112,665,109,687,75"/>
+<area shape="rect" title=" " alt="" coords="748,132,805,157"/>
+<area shape="poly" title=" " alt="" coords="735,75,763,117,758,120,731,78"/>
+<area shape="rect" title=" " alt="" coords="829,132,881,157"/>
+<area shape="poly" title=" " alt="" coords="762,74,827,120,824,124,759,79"/>
+<area shape="rect" title=" " alt="" coords="906,132,980,157"/>
+<area shape="poly" title=" " alt="" coords="791,74,903,123,900,127,789,79"/>
 <area shape="rect" title=" " alt="" coords="5,213,57,238"/>
 <area shape="poly" title=" " alt="" coords="269,166,72,215,71,209,268,161"/>
 <area shape="rect" title=" " alt="" coords="81,213,138,238"/>

diff --git a/index.html b/index.html
@@ -161,7 +161,9 @@ Repository Structure</h1>
 <tr class="markdownTableRowOdd">
 <td class="markdownTableBodyNone"><code>easynav_navmap_localizer</code>   </td><td class="markdownTableBodyNone">AMCL-like localizer operating on NavMap meshes.   </td><td class="markdownTableBodyNone"><a class="el" href="localizers_2easynav__navmap__localizer_2README_8md.html">README</a>    </td></tr>
 <tr class="markdownTableRowEven">
-<td class="markdownTableBodyNone"><code>easynav_costmap_localizer</code>   </td><td class="markdownTableBodyNone">AMCL-like localizer using <a class="el" href="classCostmap2D.html" title="A 2D costmap provides a mapping between points in the world and their associated &quot;costs&quot;.">Costmap2D</a>.   </td><td class="markdownTableBodyNone"><a class="el" href="localizers_2easynav__costmap__localizer_2README_8md.html">README</a>   </td></tr>
+<td class="markdownTableBodyNone"><code>easynav_costmap_localizer</code>   </td><td class="markdownTableBodyNone">AMCL-like localizer using <a class="el" href="classCostmap2D.html" title="A 2D costmap provides a mapping between points in the world and their associated &quot;costs&quot;.">Costmap2D</a>.   </td><td class="markdownTableBodyNone"><a class="el" href="localizers_2easynav__costmap__localizer_2README_8md.html">README</a>    </td></tr>
+<tr class="markdownTableRowOdd">
+<td class="markdownTableBodyNone"><code>easynav_fusion_localizer</code>   </td><td class="markdownTableBodyNone">Multi-sensor fusion localizer (e.g., GPS + odometry + map).   </td><td class="markdownTableBodyNone">README   </td></tr>
 </table>
 <hr  />
 <h1><a class="anchor" id="autotoc_md12"></a>
